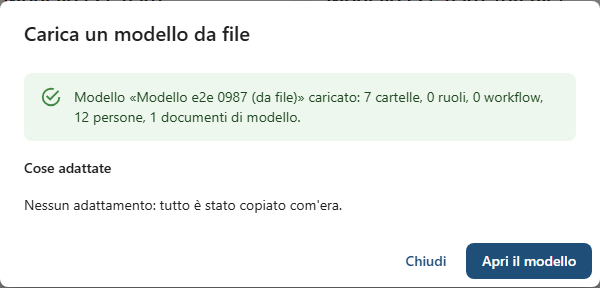
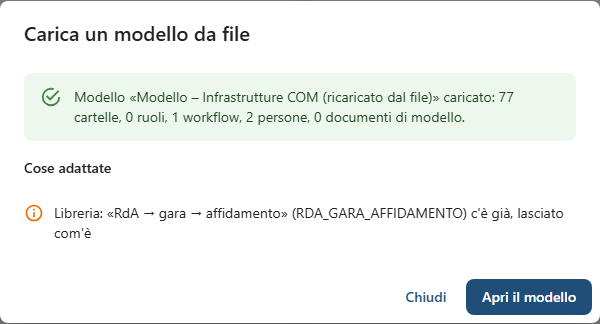
docs(skytower): guida cap. 14 con le schermate del modello vero della Galleria Fortolese
Cosa e dove
skytower/docs/guida/img/14-*.png rifatte sull'istanza di sviluppo col "Modello – Infrastrutture COM" salvato da
GALFOR (77 cartelle, workflow, persone), tranne la scheda Persone del modello che resta quella di prova perché
quella vera mostra l'account personale. Testo del capitolo allineato (nota sulle schermate, esempio di
adattamento "workflow della libreria già presente").

Perché
Le prime schermate venivano dall'ambiente e2e con nomi di prova; dopo il riavvio l'API viva ha le rotte nuove.

Come verificato
Script live.mjs eseguito sull'istanza: modello creato, commessa "[PROVA] Commessa da modello" creata e
archiviata, file .cdemodello scaricato e ricaricato (modello ricaricato archiviato).

diff --git a/skytower/docs/guida/14-modelli-di-commessa.md b/skytower/docs/guida/14-modelli-di-commessa.md
@@ -16,8 +16,8 @@ disponibili in tutte le commesse dell'azienda (vedi [capitolo 6](06-workflow-e-p
 Modelli e file dei modelli li gestiscono solo gli **amministratori dell'organizzazione**. Tutti gli
 amministratori dell'organizzazione possono usarli per aprire commesse nuove; le altre imprese non li vedono.
 
-> Le schermate di questo capitolo vengono da una commessa di prova: i nomi che vedi ("Modello e2e…") cambiano,
-> i pulsanti e i passaggi sono quelli veri.
+> Le schermate mostrano il "Modello – Infrastrutture COM", salvato dalla commessa Galleria Fortolese; quella
+> delle persone del modello viene da un modello di prova.
 
 ## 14.1 Salvare una commessa come modello
 
@@ -92,7 +92,7 @@ anche su un'altra installazione di SkyTower.
 
 SkyTower controlla che il file sia integro: se è rovinato o modificato a mano lo rifiuta. Poi mostra l'elenco
 delle cose adattate, per esempio persone che in questa installazione non esistono e quindi non sono state
-aggiunte. Se il file torna nella stessa organizzazione da cui è uscito, l'elenco dice "Nessun adattamento".
+aggiunte, o workflow della libreria che c'erano già e sono stati lasciati com'erano.
 
 ![Adattamenti dopo il caricamento](img/14-adattamenti-dopo-il-caricamento.png)
 
